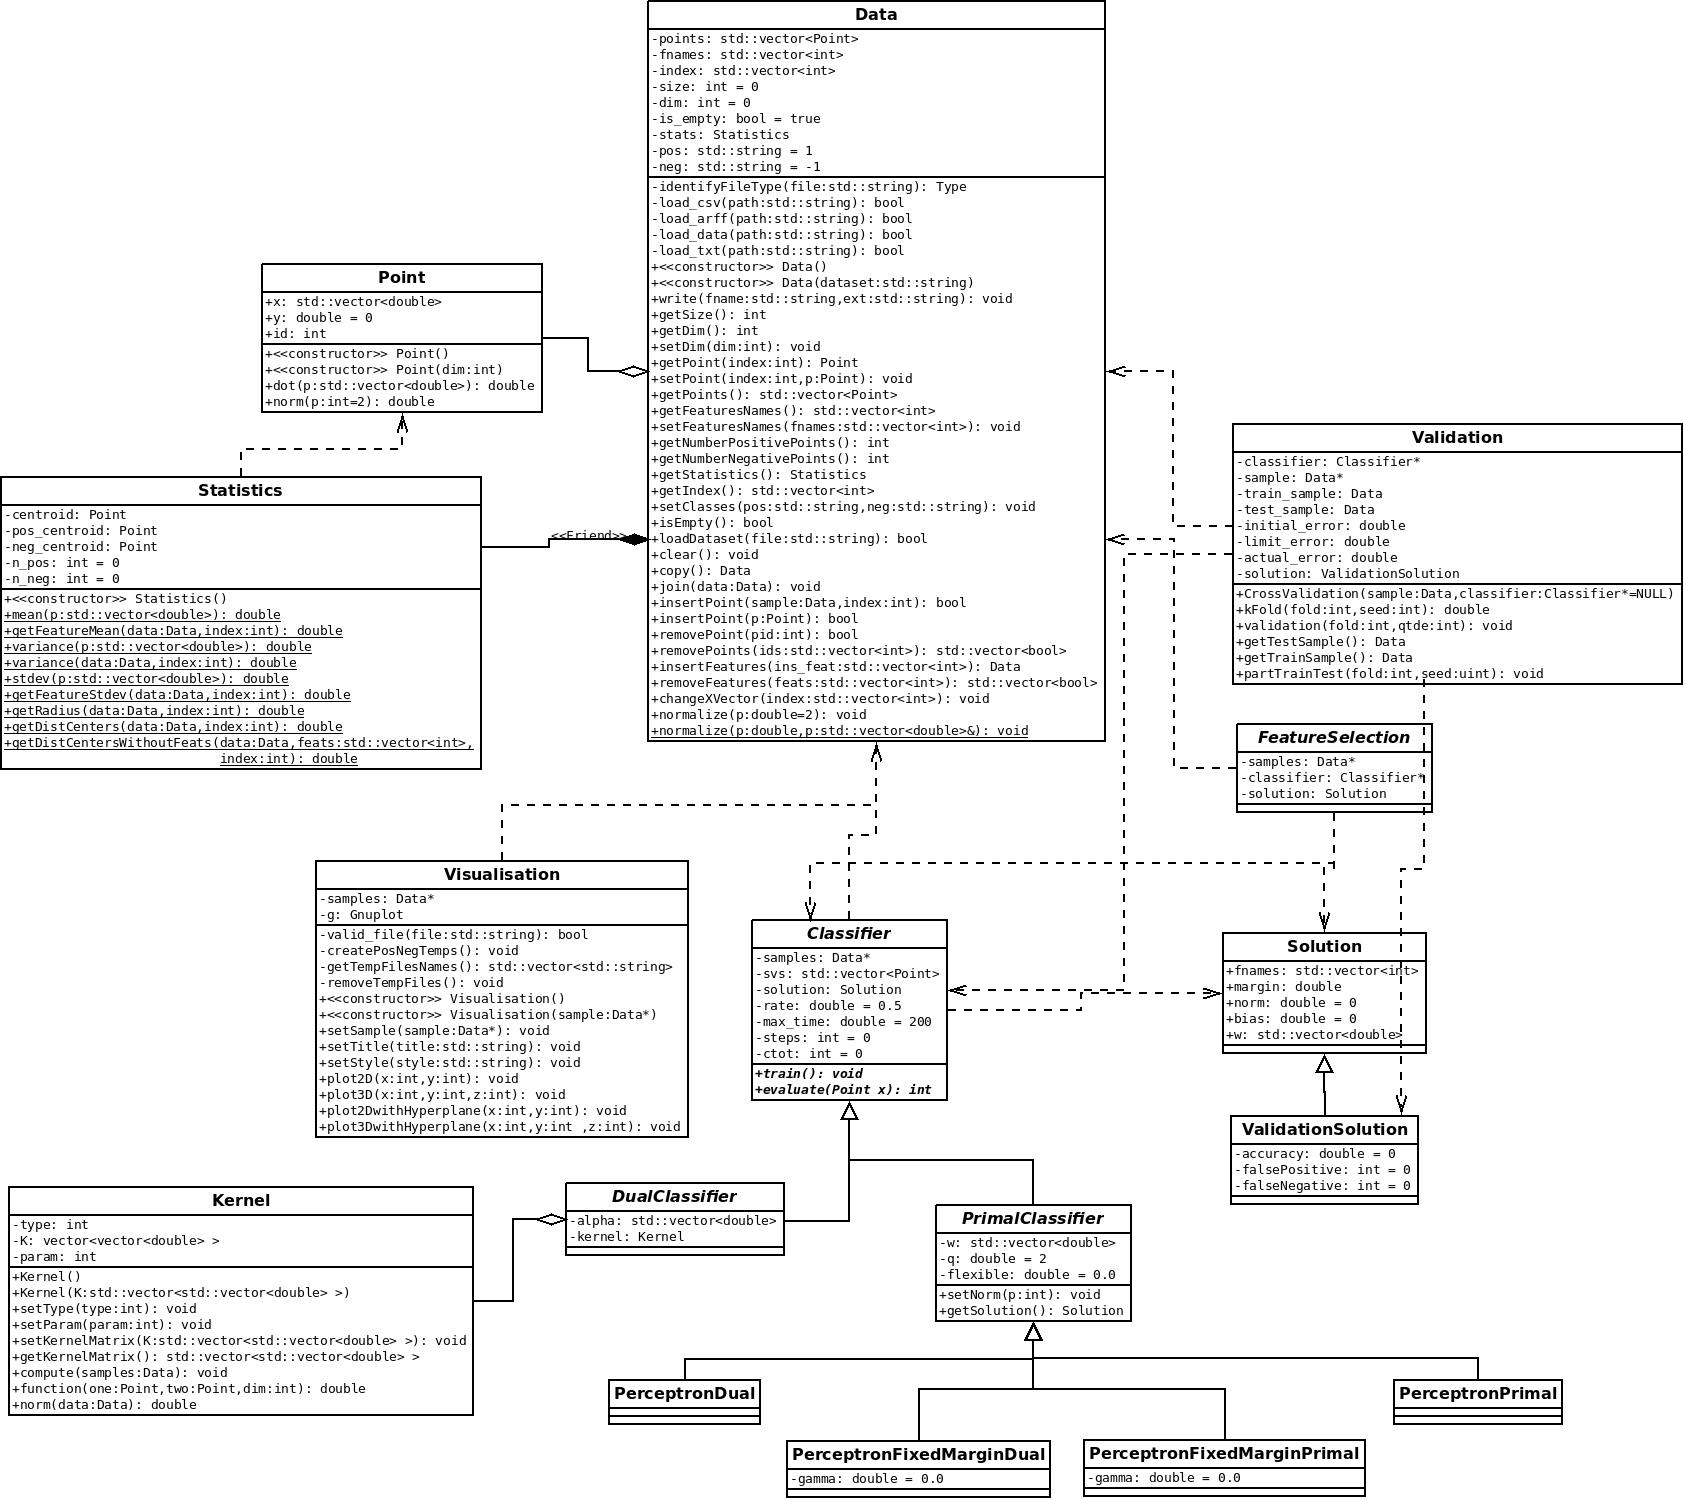
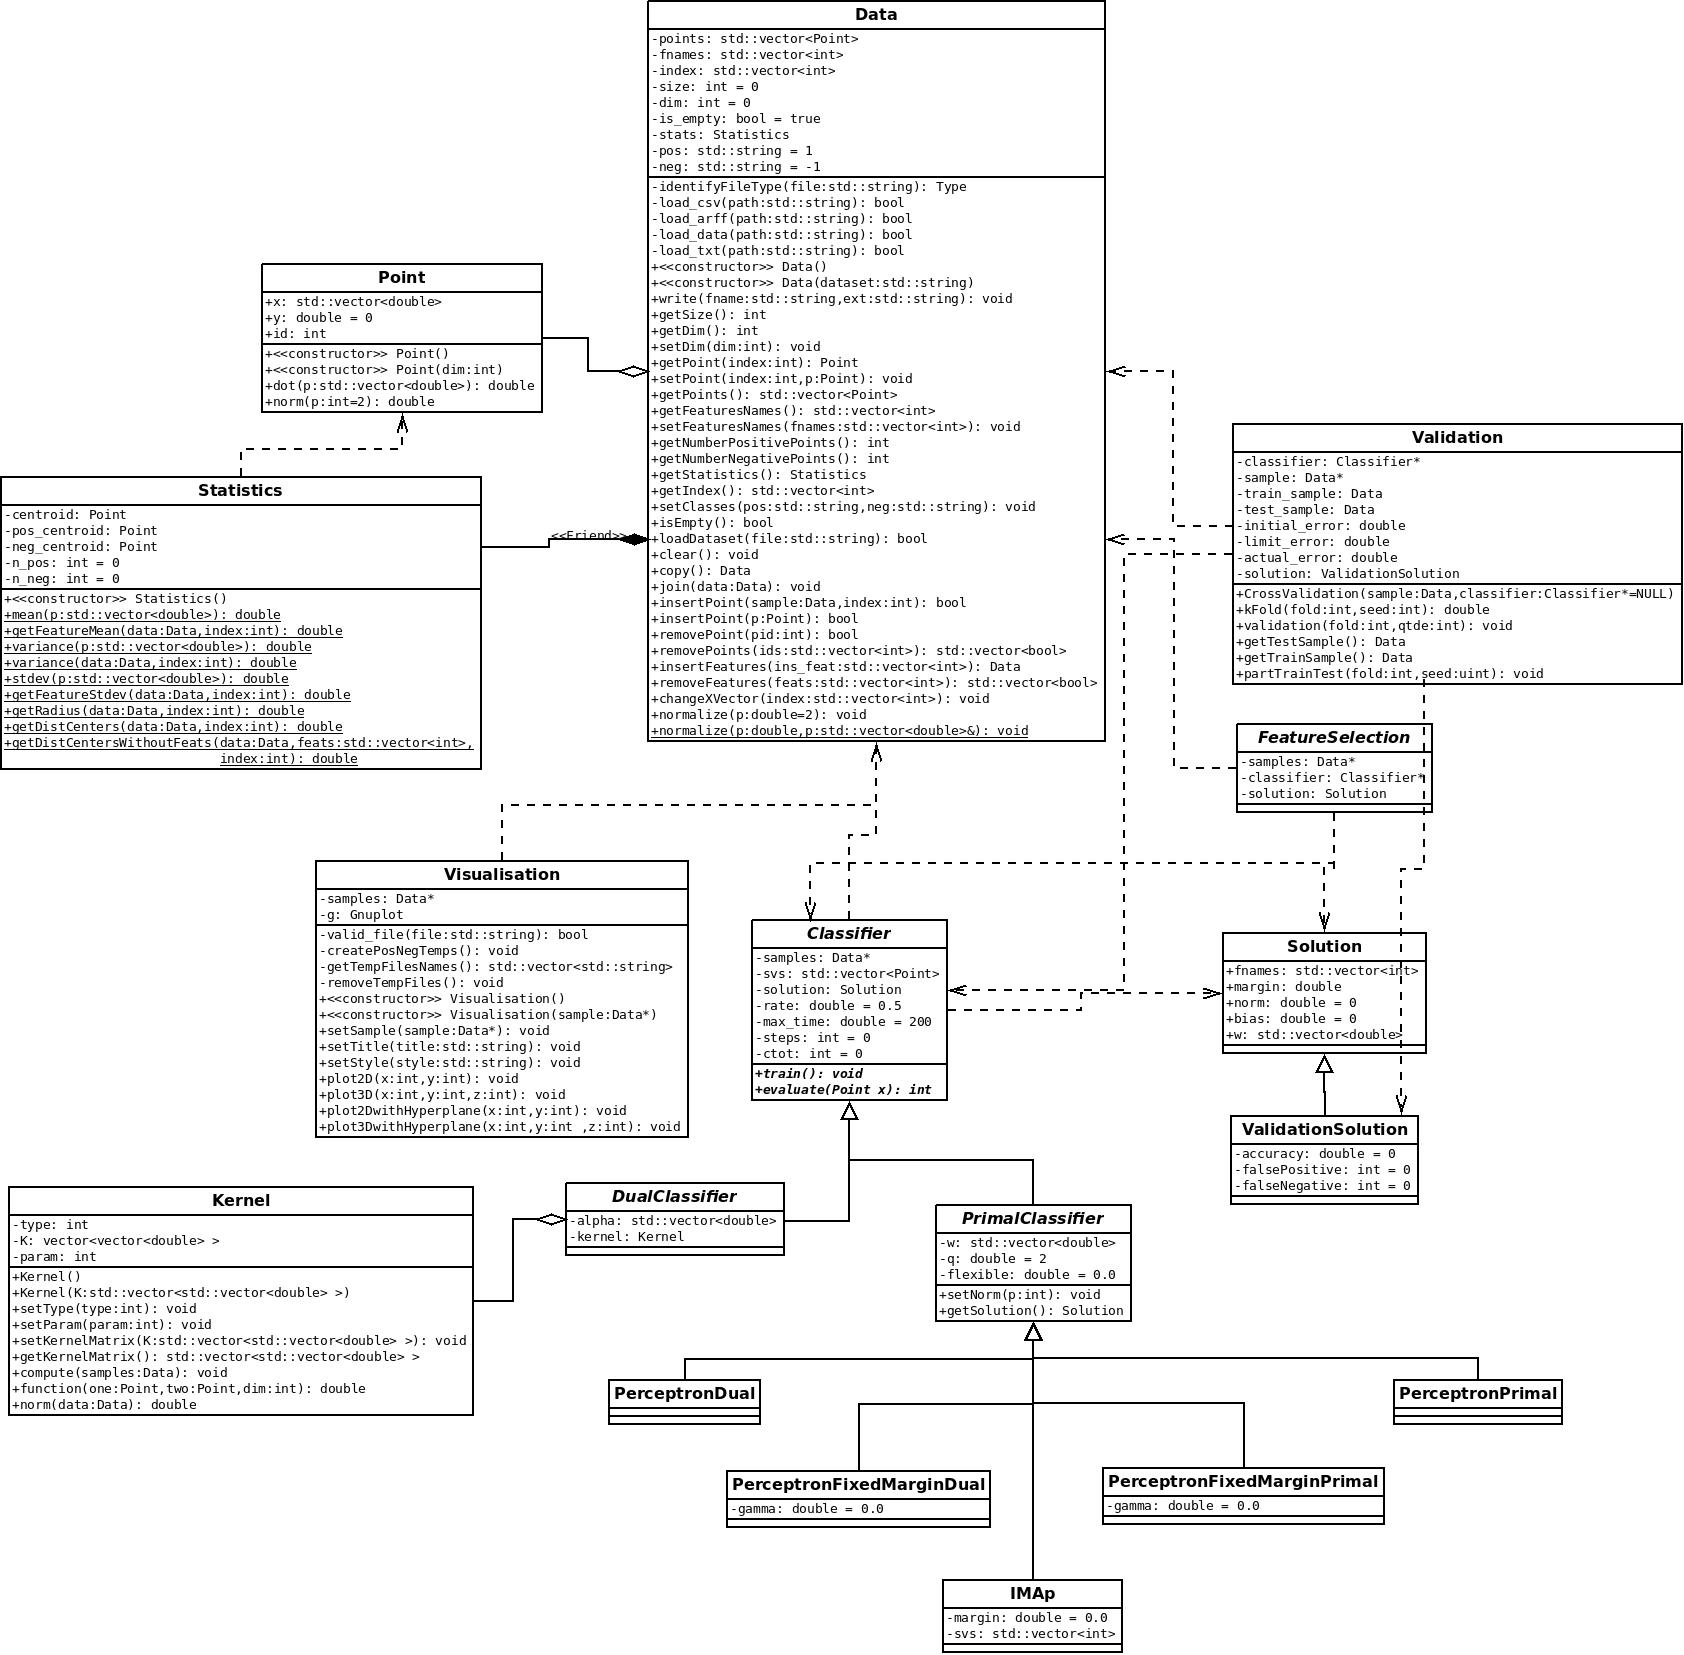
Class diagram updated.'

diff --git a/src/IMA.cpp b/src/IMA.cpp
@@ -1,0 +1,198 @@
+//
+// Created by mateus558 on 01/08/17.
+//
+
+#include <iostream>
+#include <cmath>
+#include "../includes/IMA.hpp"
+
+using namespace std;
+
+IMAp::IMAp(Data *samples, double margin, Solution *initial_solution = NULL) {
+    this->samples = samples;
+    this->margin = margin;
+
+    if(initial_solution){
+        w = initial_solution->w;
+        solution.bias = initial_solution->bias;
+    }else{
+        w.resize(samples->getSize());
+    }
+}
+
+bool IMAp::train() {
+    long int tmax = 0;
+    int i, j, n, maiorn = 0, flagNao1aDim = 0, y, it;
+    int size = samples->getSize(), dim = samples->getDim(), t1=1, t3=1;
+    double gamma, secs, bias = 0.0, alpha, rmargin = margin, inc;
+    double min = 0.0, max = 0.0, norm = 1.0, maiorw = 0.0;
+    vector<double> w_saved, func;
+    vector<int> index = samples->getIndex(), fnames = samples->getFeaturesNames();
+    vector<Point> points = samples->getPoints();
+
+    n = dim;
+    rate = 1.0;
+    //Initializing data struct
+    solution.norm  = 1.0;
+
+    //Allocating space for w_saved and func
+    w_saved.resize(dim);
+    func.resize(size);
+
+    //Allocating space for w
+    if(w.size() > 0) {
+        if (q == 1)
+            for (solution.norm = 0.0, i = 0; i < dim; ++i) solution.norm += fabs(w[i]);
+        else if (q == 2) {
+            for (solution.norm = 0.0, i = 0; i < dim; ++i) solution.norm += w[i] * w[i];
+            solution.norm = sqrt(solution.norm);
+        } else {
+            for (solution.norm = 0.0, i = 0; i < dim; ++i) solution.norm += pow(fabs(w[i]), q);
+            solution.norm = pow(solution.norm, 1.0 / q);
+        }
+        for (i = 0; i < dim; ++i) w[i] /= solution.norm;
+        solution.bias /= solution.norm;
+        solution.norm = 1;
+        flagNao1aDim = 1;
+        int flag = 0;
+        for (min = DBL_MAX, max = -DBL_MAX, i = 0; i < size; ++i) {
+            y = points[i].y;
+            for (func[i] = 0, j = 0; j < dim; ++j)
+                func[i] += w[j] * points[i].x[j];
+            if (y == 1 && func[i] < min) min = func[i];
+            else if (y == -1 && func[i] > max) max = func[i];
+        }
+        //printf("min = %lf\n", min);
+        //printf("max = %lf\n", max);
+        //printf("flag = %d\n", flag);
+        solution.bias = -(min + max) / 2.0;
+        //printf("bias: %lf\n", data.z->bias);
+        //flag = 0;
+        for (min = DBL_MAX, max = -DBL_MAX, i = 0; i < size; ++i) {
+            y = points[i].y;
+            for (func[i] = solution.bias, j = 0; j < dim; ++j)
+                func[i] += w[j] * points[i].x[j];
+            if (func[i] * y < 0) flag++;
+            if (y == 1 && func[i] < min) min = func[i];
+            else if (y == -1 && func[i] > max) max = func[i];
+        }
+        //printf("flag = %d\n", flag);
+        if (flag) rmargin = 0;
+        else rmargin = fabs(min);
+        //printf("*margin = %lf / rmargin = %lf\n", *margin, rmargin);
+        if (margin == 0) tMax = MAX_UP;
+        else {
+            double raio = Statistics::getRadius(*samples, -1, q);//data_get_radius(sample, -1, q);
+            tMax = (raio * raio - rmargin * rmargin) / pow(margin - rmargin, 2);
+            if (rmargin == 0) tMax *= 1.5;
+            //tMax *= 2;
+        }
+        //printf("tMax = %ld\n", tMax);
+        //rmargin = 0;
+        //tMax = (raio * raio - rmargin * rmargin) / pow(*margin - rmargin, 2);
+        //printf("tMax = %d\n", tMax);
+    }
+
+    //Allocating space for index and initializing
+    if(index.size() == 0)
+    {
+        index.resize(size);
+        for(i = 0; i < size; ++i) index[i] = i;
+    }
+    samples->setIndex(index);
+
+    //Initializing w_saved and func
+    for(i = 0; i <  dim; ++i) w_saved[i] = 0.0;
+    for(i = 0; i < size; ++i) { func[i] = 0.0; points[i].alpha = 0.0; }
+
+    if(verbose)
+    {
+        cout << "----------------------------------------------------------------------\n";
+        cout << " pmf    passos     atualiz.        margem            norma        segs\n";
+        cout << "----------------------------------------------------------------------\n";
+    }
+
+    it = 0; ctot = 0; steps = 0; gamma = 0.0; //gammaf1 = 0.0; t1 = 0; gammaf2 = 0.0; t2 = 0; gammaf3 = 0.0; t3 = 0; Cmedia = 0.0;
+    //srand(0); //zerar a semente pros resultados serem sempre iguais
+    start_time = 100.0f*clock()/CLOCKS_PER_SEC;
+
+    //Parei aqui
+    while(imap_fixed_margin_perceptron(&data, gamma, &steps, &ctot, sample->index, q, max_time))
+    {
+        //Finding minimum and maximum functional values
+        norm  = solution.norm;
+        bias  = solution.bias;
+        for(min = DBL_MAX, max = -DBL_MAX, i = 0; i < size; ++i)
+        {
+            y = points[i].y;
+            alpha = points[i].alpha;
+            if((func[i] + y*alpha*flexible) >= 0 && min > (func[i] + y*alpha*flexible)/norm) min = (func[i] + y*alpha*flexible)/norm;
+            else if((func[i] + y*alpha*flexible) <  0 && max < (func[i] + y*alpha*flexible)/norm) max = (func[i] + y*alpha*flexible)/norm;
+        }
+
+        //Saving good weights
+        for(i = 0; i < dim; i++) w_saved[i] = solution.w[i];
+
+        //Obtaining real margin
+        rmargin = (fabs(min) > fabs(max)) ? fabs(max) : fabs(min);
+
+        //Shift no bias
+        double mmargin = (fabs(max) + fabs(min)) / 2.0;
+        if(fabs(max) > fabs(min))
+            solution.bias += fabs(mmargin - rmargin);
+        else
+            solution.bias -= fabs(mmargin - rmargin);
+
+        //Obtaining new gamma_f
+        gamma = (min-max)/2.0;
+        inc = (1+sample->alpha_aprox)*rmargin;
+        if(gamma < inc) gamma = inc;
+        rmargin = mmargin;
+
+        if(it == 2)
+            t1 = ctot;
+        t3 = ctot;
+
+        if(it > 1)
+        {
+            RATE = sqrt(t1) / sqrt(t3);
+            if(verbose) cout << "RATE: " << rate << "\n";
+        }
+        else if(it == 1 && verbose)
+            cout << "RATE: " << rate << "\n";
+
+        secs = (100.0f*clock()/CLOCKS_PER_SEC-start_time)/100.0f;
+        if(verbose) cout << " " << it+1 << "   " << steps << "    " << ctot << "    " << rmargin << "    " << norm << "    " << secs << " ";
+
+        ++it; //IMA iteration increment
+        //if(it > 3)
+        if(flagNao1aDim) break;
+    }
+
+    solution.w = w_saved;
+    solution.margin = rmargin;
+    solution.norm = norm;
+    solution.bias = bias;
+
+    if(verbose)
+    {
+        cout << "\n----------------------------------------------------------------------\n";
+        cout << "Numero de vezes que o Perceptron de Margem Fixa foi chamado: " << it+1 << "\n";
+        cout << "Numero de passos atraves dos dados: " << steps <<"\n";
+        cout << "Numero de atualizacoes: " << ctot << "\n";
+        cout << "Margem encontrada: " << rmargin << "\n";
+        cout << "Min: " << fabs(min) << " / Max: " << fabs(max) << "\n\n";
+        if(verbose > 1)
+        {
+            for(i = 0; i < dim; ++i) cout << "W[" << fnames[i] << "]: " << w_saved[i] << "\n";
+            cout << "Bias: " << solution.bias << "\n\n";
+        }
+    }
+
+    if(!it)
+    {
+        if(verbose) cout << "Convergencia do FMP nao foi atingida!\n";
+        return 0;
+    }
+    return 1;
+}

diff --git a/includes/IMA.hpp b/includes/IMA.hpp
@@ -1,0 +1,26 @@
+//
+// Created by mateus558 on 01/08/17.
+//
+
+#ifndef CLASSIFICATION_ALGORITHMS_SYSTEM_IMA_HPP
+#define CLASSIFICATION_ALGORITHMS_SYSTEM_IMA_HPP
+
+#include <vector>
+#include "PrimalClassifier.hpp"
+#include "DualClassifier.hpp"
+#include "MLToolkit.hpp"
+
+class IMAp : public PrimalClassifier {
+private:
+    double margin;
+    /// Support vector.
+    std::vector<int> svs;
+
+public:
+    IMAp(Data *samples = NULL, double margin, Solution *initial_solution = NULL);
+    bool train();
+    double evaluate(Point p);
+};
+
+
+#endif //CLASSIFICATION_ALGORITHMS_SYSTEM_IMAP_HPP
